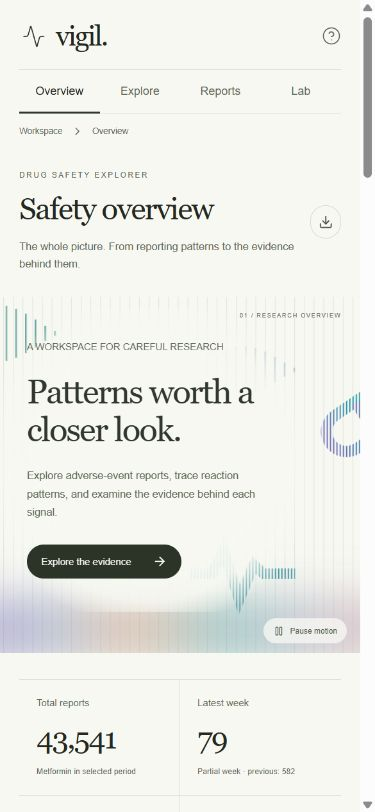
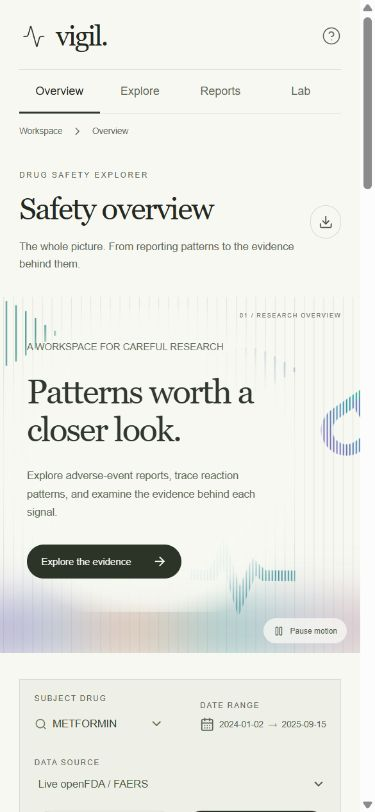
Reduce eye travel with a compact desktop workspace

diff --git a/frontend/src/main.jsx b/frontend/src/main.jsx
@@ -108,7 +108,7 @@ function App() {
  <aside className={`sidebar ${mobile?'open':''}`}><a className="brand" href="#overview" onClick={()=>navigate('overview')}><span className="brand-mark"><Activity size={29}/></span><span>vigil<span className="brand-period">.</span><small>SIGNAL INTELLIGENCE</small></span></a><div className="workspace-switch"><span className="workspace-icon"><Layers size={16}/></span><div>Safety workspace<small>Adverse event research</small></div><ShieldCheck size={15} className="muted"/></div><WorkspaceNavigation view={view} views={NAV} onNavigate={navigate}/><div className="sidebar-bottom"><div className="evidence-note"><span className="note-orbit"><Sparkles size={18}/></span><h3>Evidence, with context.</h3><p>Explore patterns.<br/>Keep the limitations in view.</p><button onClick={()=>setHelpOpen(true)}>How to read the data <ArrowUpRight size={14}/></button></div><button className="nav-item" onClick={()=>setHelpOpen(true)}><CircleHelp size={18}/><span>Guide & methodology</span></button><div className="profile"><span>KM</span><div>Research workspace<small>Local environment</small></div><span className="status-dot"/></div></div></aside>
  <div className="main-shell"><header className="topbar"><div className="breadcrumbs"><button className="icon-btn mobile-menu" onClick={()=>setMobile(true)} aria-label="Open navigation"><Menu size={20}/></button><span>Workspace</span><ChevronRight size={13}/>{view!=='overview'&&<><span className="breadcrumb-section">{groupForView(view).label}</span><ChevronRight size={13}/></>}<strong>{current[1]}</strong></div><div className="topbar-right"><span className="private-label"><ShieldCheck size={14}/> {data?.meta?.workspace_location==='hosted'?'Private hosted workspace':data?.meta?.workspace_location==='local'?'Local workspace':'Research workspace'}</span><span className="top-divider"/><button className="avatar" onClick={()=>setHelpOpen(true)} aria-label="Workspace information">KM</button></div></header>
  <main id="main" tabIndex={-1}><div className={`page-title ${view!=='overview'?'study-title':''}`}><div className="page-symbol" aria-hidden="true"><Activity size={25}/></div><div><div className="page-kicker"><span className="status-dot"/> DRUG SAFETY EXPLORER</div><h1>{view==='overview'?'Safety overview':current[1]}</h1><p>{({overview:'The whole picture. From reporting patterns to the evidence behind them.',reactions:'Explore which reactions appear most often in the selected cohort.',reports:'Inspect the records behind each pattern and export your findings.',signals:'Find unusual reporting patterns, then examine the supporting counts.',changes:'Compare two periods. Follow the reporting patterns that moved.',severity:'Explore reported outcomes and the composition of your cohort.',network:'Follow the connections between a drug and reported reactions.',narratives:'Turn unstructured text into transparent, inspectable evidence.',models:'Compare model behavior. Understand what drives a prediction.'})[view]}</p></div>{view!=='overview'&&<SectionMark view={view}/>}<button className="btn ghost" aria-label={exportData.label} onClick={()=>view==='changes'?exportChanges(exportData.rows):downloadCSV(exportData.rows,exportData.name,{data_source:exportSource,retrieved_at:exportEntry.result?.freshness?.retrieved_at||exportEntry.result?.generated_at||'',data_status:exportEntry.status,subject_drug:params.drug,comparison_drug:params.compare,cohort_start:params.start,cohort_end:params.end,reaction_focus:['reports','signals'].includes(view)?reaction:'',export_scope:reaction&&view==='reports'?'Reaction-specific sample':reaction&&view==='signals'?'Selected reaction signal':'Full cohort view'})} disabled={!exportData.rows.length||loading||Boolean(error)}><Download size={15}/><span>{exportData.label}</span></button></div>
- {view==='overview'&&<div className={`overview-intro ${data?'has-metrics':''}`}><section className="hero glass"><div className="hero-copy"><span className="eyebrow">A WORKSPACE FOR CAREFUL RESEARCH</span><h2>Patterns worth a<br/><span>closer look.</span></h2><p>Explore adverse-event reports, trace reaction patterns,<br className="desktop-br"/> and examine the evidence behind each signal.</p><button className="text-link" onClick={()=>navigate('signals')}>Explore the evidence <ArrowRight size={15}/></button></div><ScanlineField/><div className="hero-index">01 / RESEARCH OVERVIEW</div><div className="hero-bottom-caption">EVIDENCE IN EVERY DIMENSION</div></section>{data&&<div className="stats-grid">{stats.map((s,i)=><div className={`stat-card glass stat-${i}`} key={s.label}><div className="stat-top"><span>{s.label}</span><s.icon size={16}/></div><div className="stat-number">{s.value}{i<2&&<svg viewBox="0 0 90 35" aria-hidden="true"><polyline points={entries(data.timeseries).slice(-12).map((r,j,a)=>`${j*8},${32-(Number(r.count)||0)/Math.max(1,...a.map(x=>Number(x.count)||0))*28}`).join(' ')} fill="none" stroke="currentColor" strokeWidth="1.6"/></svg>}</div><p>{s.detail}</p></div>)}</div>}</div>}
+ {view==='overview'&&<div className="overview-intro"><section className="hero glass"><div className="hero-copy"><span className="eyebrow">A WORKSPACE FOR CAREFUL RESEARCH</span><h2>Patterns worth a<br/><span>closer look.</span></h2><p>Explore adverse-event reports, trace reaction patterns,<br className="desktop-br"/> and examine the evidence behind each signal.</p><button className="text-link" onClick={()=>navigate('signals')}>Explore the evidence <ArrowRight size={15}/></button></div><ScanlineField/><div className="hero-index">01 / RESEARCH OVERVIEW</div><div className="hero-bottom-caption">EVIDENCE IN EVERY DIMENSION</div></section></div>}
  <div className="filterbar glass"><div className="drug-select"><span className="filter-label">SUBJECT DRUG</span><DrugCombobox value={draft.drug} onChange={drug=>setDraft(d=>({...d,drug}))} onApply={apply} mode={draft.mode} localOptions={data?.filters?.drugs||['METFORMIN','IBUPROFEN','ACETAMINOPHEN']}/></div><div className="filter-period"><span className="filter-label">DATE RANGE</span><span><CalendarDays size={15}/>{params.start} <span className="muted">→</span> {params.end}</span></div><div className="source-select"><span className="filter-label">DATA SOURCE</span><select aria-label="Data source" value={draft.mode} onChange={e=>setDraft({...draft,mode:e.target.value})}><option value="reference">Synthetic local archive</option><option value="live">Live openFDA / FAERS</option></select></div><button className="btn ghost filter-button" onClick={openFilters}><SlidersHorizontal size={16}/> Filters{params.compare&&<span className="filter-count">+1</span>}</button><button className="btn primary" onClick={apply} disabled={loading||!draft.drug.trim()}><RefreshCw size={15} className={loading?'spin':''}/>{loading?'Loading…':pendingChanges?'Apply changes':'Apply'}</button></div>
  <div className="source-line"><span className="source-indicator"><span className={`status-dot ${reference?'lavender':''}`}/>{sourceLabel}</span><span className="source-description">{reference?'Illustrative data · no clinical conclusions':'Spontaneous reports · association ≠ causation'}</span>{pendingChanges&&<span className="pending-note" role="status">Unapplied changes</span>}<button className="icon-btn" title="Reload current cohort (cached for up to five minutes)" aria-label="Refresh current cohort" onClick={()=>setRefresh(value=>value+1)} disabled={dashboardBusy}><RefreshCw size={13}/></button></div>
  <DataStatus/><InvestigationWorkspace workspaceLocation={data?.meta?.workspace_location} requestState={requestState} comparison={periodData} actionsRef={investigationActions} onActiveChange={setActiveInvestigation} cohort={params} view={view} reaction={reaction} periods={periods} retrievedAt={view==='changes'?periodData?.meta.freshness?.retrieved_at||periodData?.meta.generated_at||'':workspaceResult?.freshness?.retrieved_at||workspaceResult?.generated_at||''} pending={pendingChanges||periodDraftDirty} onLoad={saved=>{setEvidenceOpen(false);setPeriods(saved.periods?.baseline_start?saved.periods:previousPeriod(saved.cohort));setPeriodDraftDirty(false);setParams({...saved.cohort});setDraft({...saved.cohort});setReaction(saved.reaction);setFlagged(false);navigate(saved.view)}}/>
@@ -116,7 +116,7 @@ function App() {
  {error&&<div className="error-box" role="alert"><AlertCircle size={19}/><div><strong>We couldn’t load this cohort</strong><p>{error}</p><button className="text-link" onClick={()=>setRefresh(refresh+1)}>Try again <RefreshCw size={13}/></button></div></div>}
  {loading?<div className="loading-state" role="status"><LoaderCircle className="spin" size={27}/><h3>Gathering the evidence</h3><p>{reference?'Reading your local archive…':'Querying openFDA. Larger cohorts may take a moment.'}</p><div className="skeleton-grid">{[0,1,2,3].map(i=><div className="skeleton" key={i}/>)}</div></div>:!error&&data&&<>
  {params.compare&&view!=='changes'&&<div className="compare-note"><Layers size={15}/><strong>{titleCase(params.drug)}</strong> compared with <strong>{titleCase(params.compare)}</strong><span>{comparison?.status==='unavailable'?'Comparison unavailable':comparison?.status==='partial'?'Partial comparison · see data notes':'Same date range and cohort'}</span></div>}
- {view==='overview'&&<><div className="overview-grid"><Panel section="core" title={`Weekly ${unit}`} description={`${titleCase(params.drug)} · ${fmt(summary.weeks)} weeks in view`} action={<Tag><span className="status-dot"/> Volume over time</Tag>} className="trend-panel"><TimeSeriesChart recordLabel={unit} data={entries(data.timeseries)} drug={titleCase(params.drug)} compareDrug={titleCase(params.compare)} compareData={comparisonSeries?entries(data.timeseries).map(r=>({date:r.date,count:r.compare_count})):undefined}/><div className="chart-foot"><span><span className="legend-dot"/> {titleCase(params.drug)}</span><span>Week received · {reference?'synthetic reviews':'FAERS reports'}</span></div></Panel><Panel section="signals" title="Evidence brief" eyebrow="ASSISTED EXPLORATION" action={<Sparkles size={17} className="mint"/>} className="brief-panel"><div className="brief-source"><span className="status-dot"/> Computed from this cohort</div><div className="brief-item"><span className="brief-number">01</span><div><h3>{leadingReaction?`${titleCase(leadingReaction.reaction)} leads the mentions`:'Start with reaction coverage'}</h3><p>{leadingReaction?`${fmt(leadingReaction.count)} ${unit} mention this reaction. Counts describe the selected cohort, not incidence.`:'No reaction counts are available for this cohort.'}</p></div></div><div className="brief-item"><span className="brief-number">02</span><div><h3>{fmt(summary.signal_count??(signalsReady?signals.filter(s=>s.signal).length:null))} patterns meet the flag rule</h3><p>Review PRR, confidence intervals, and supporting counts before interpreting a signal.</p></div></div><button className="btn brief-action" onClick={()=>navigate('signals')}>Inspect signals <ArrowUpRight size={15}/></button><div className="brief-disclaimer"><Info size={13}/> Rule-based summary · no generated medical advice</div></Panel><Panel section="core" title="Most mentioned reactions" description={`Top ${Math.min(6,reactions.length)} · counts in selected cohort`} action={<button className="icon-btn" aria-label="View all reactions" onClick={()=>navigate('reactions')}><ArrowUpRight size={18}/></button>}><HorizontalBars onSelect={selectReaction} selectedReaction={reaction} data={reactions.slice(0,6)} showComparison={comparisonReactions} compareLabel={titleCase(params.compare)} valueLabel={reference?'Reviews':'Reports'}/></Panel><Panel section="core" dependencies={params.compare?['signals','comparison']:['signals']} title="Connected evidence" description="Drug–reaction relationships at a glance" action={<button className="icon-btn" aria-label="Explore network" onClick={()=>navigate('network')}><ArrowUpRight size={18}/></button>} className="network-mini"><NetworkGraph compact selectedReaction={reaction} onReactionChange={selectReaction} data={data.graph||signals} recordLabel={unit} drug={titleCase(params.drug)}/></Panel></div></>}
+ {view==='overview'&&<>{data&&<div className="stats-grid">{stats.map((s,i)=><div className={`stat-card glass stat-${i}`} key={s.label}><div className="stat-top"><span>{s.label}</span><s.icon size={16}/></div><div className="stat-number">{s.value}{i<2&&<svg viewBox="0 0 90 35" aria-hidden="true"><polyline points={entries(data.timeseries).slice(-12).map((r,j,a)=>`${j*8},${32-(Number(r.count)||0)/Math.max(1,...a.map(x=>Number(x.count)||0))*28}`).join(' ')} fill="none" stroke="currentColor" strokeWidth="1.6"/></svg>}</div><p>{s.detail}</p></div>)}</div>}<div className="overview-grid"><Panel section="core" title={`Weekly ${unit}`} description={`${titleCase(params.drug)} · ${fmt(summary.weeks)} weeks in view`} action={<Tag><span className="status-dot"/> Volume over time</Tag>} className="trend-panel"><TimeSeriesChart recordLabel={unit} data={entries(data.timeseries)} drug={titleCase(params.drug)} compareDrug={titleCase(params.compare)} compareData={comparisonSeries?entries(data.timeseries).map(r=>({date:r.date,count:r.compare_count})):undefined}/><div className="chart-foot"><span><span className="legend-dot"/> {titleCase(params.drug)}</span><span>Week received · {reference?'synthetic reviews':'FAERS reports'}</span></div></Panel><Panel section="signals" title="Evidence brief" eyebrow="ASSISTED EXPLORATION" action={<Sparkles size={17} className="mint"/>} className="brief-panel"><div className="brief-source"><span className="status-dot"/> Computed from this cohort</div><div className="brief-item"><span className="brief-number">01</span><div><h3>{leadingReaction?`${titleCase(leadingReaction.reaction)} leads the mentions`:'Start with reaction coverage'}</h3><p>{leadingReaction?`${fmt(leadingReaction.count)} ${unit} mention this reaction. Counts describe the selected cohort, not incidence.`:'No reaction counts are available for this cohort.'}</p></div></div><div className="brief-item"><span className="brief-number">02</span><div><h3>{fmt(summary.signal_count??(signalsReady?signals.filter(s=>s.signal).length:null))} patterns meet the flag rule</h3><p>Review PRR, confidence intervals, and supporting counts before interpreting a signal.</p></div></div><button className="btn brief-action" onClick={()=>navigate('signals')}>Inspect signals <ArrowUpRight size={15}/></button><div className="brief-disclaimer"><Info size={13}/> Rule-based summary · no generated medical advice</div></Panel><Panel section="core" title="Most mentioned reactions" description={`Top ${Math.min(6,reactions.length)} · counts in selected cohort`} action={<button className="icon-btn" aria-label="View all reactions" onClick={()=>navigate('reactions')}><ArrowUpRight size={18}/></button>}><HorizontalBars onSelect={selectReaction} selectedReaction={reaction} data={reactions.slice(0,6)} showComparison={comparisonReactions} compareLabel={titleCase(params.compare)} valueLabel={reference?'Reviews':'Reports'}/></Panel><Panel section="core" dependencies={params.compare?['signals','comparison']:['signals']} title="Connected evidence" description="Drug–reaction relationships at a glance" action={<button className="icon-btn" aria-label="Explore network" onClick={()=>navigate('network')}><ArrowUpRight size={18}/></button>} className="network-mini"><NetworkGraph compact selectedReaction={reaction} onReactionChange={selectReaction} data={data.graph||signals} recordLabel={unit} drug={titleCase(params.drug)}/></Panel></div></>}
  {view==='reactions'&&<><div className="section-toolbar"><span>{fmt(reactions.length)} reaction terms</span><div><label className="inline-control">Top <select value={topN} onChange={e=>setTopN(+e.target.value)}>{[5,10,20,30].map(n=><option key={n}>{n}</option>)}</select></label><div className="segments"><button className={reactionView==='chart'?'selected':''} onClick={()=>setReactionView('chart')}>Chart</button><button className={reactionView==='treemap'?'selected':''} onClick={()=>setReactionView('treemap')}>Treemap</button><button className={reactionView==='table'?'selected':''} onClick={()=>setReactionView('table')}>Table</button></div></div></div><Panel section="core" title="Reaction frequency" description="A single record can mention more than one reaction.">{reactionView==='treemap'?<TreemapChart onSelect={selectReaction} selectedReaction={reaction} data={reactions.slice(0,topN)} recordLabel={unit}/>:reactionView==='chart'?<HorizontalBars onSelect={selectReaction} selectedReaction={reaction} data={reactions.slice(0,topN)} showComparison={comparisonReactions} compareLabel={titleCase(params.compare)} valueLabel={reference?'Reviews':'Reports'}/>:<DataTable onReaction={selectReaction} selectedReaction={reaction} data={reactions} source={source} name="reactions" columns={[{key:'reaction',label:'Reaction'},{key:'count',label:reference?'Reviews':'Reports'},...(params.compare?[{key:'compare_reports',label:titleCase(params.compare)}]:[])]}/>}</Panel>{params.compare&&<Panel section="comparison" title={`Comparison · ${titleCase(params.compare)}`}>{comparisonReactions?<HorizontalBars onSelect={selectReaction} selectedReaction={reaction} data={reactions.filter(r=>r.compare_reports!=null).slice(0,topN).map(r=>({...r,count:r.compare_reports}))} showComparison={false} color="#8773a5"/>:<Empty title="Comparison reactions unavailable">The comparison request did not complete. Counts are unknown; reload the cohort to try again.</Empty>}</Panel>}</>}
  {view==='reports'&&<Panel section={reaction?undefined:'reports'} title={reaction?`${titleCase(reaction)} · matching records`:reference?'Archive records':'Sample FAERS reports'} description={reference?'Synthetic review records supplied with the original project.':'Report sample returned by openFDA; this is not an exhaustive download.'}>{reaction?<>{reportFocus.key!==reportKey||reportFocus.loading?<p className="report-focus-note" role="status"><LoaderCircle size={16} className="spin"/> Loading matching records…</p>:reportFocus.error?<div className="error-box" role="alert"><p>{reportFocus.error}</p><button className="btn small" onClick={()=>setReportRetry(value=>value+1)}>Retry matching records</button></div>:<><p className="report-focus-note">{reportFocus.notice} <strong>{fmt(reportFocus.total)} matching {unit}; {fmt(focusedReports.length)} displayed.</strong>{reportFocus.skipped>0?` ${reportFocus.skipped} oversized reports omitted.`:''}</p><DataTable data={focusedReports} source={{data_source:source,retrieved_at:reportFocus.meta?.freshness?.retrieved_at||reportFocus.meta?.generated_at||'',reaction_focus:reaction,subject_drug:params.drug,cohort_start:params.start,cohort_end:params.end}} name="reaction-reports"/></>}</>:<DataTable data={entries(reference?data.narratives?.records:data.reports)} source={source} name="reports"/>}</Panel>}
  {view==='changes'&&<ChangesView cohort={params} periods={periods} refresh={refresh} result={changesResult} onResult={setChangesResult} onApply={applyPeriods} onSelect={selectReaction} selectedReaction={reaction} onInspect={term=>{selectReaction(term);setEvidenceOpen(false);navigate('reports')}} onExport={exportChanges} onDraftChange={setPeriodDraftDirty}/>}

diff --git a/frontend/src/responsive-workspace.css b/frontend/src/responsive-workspace.css
@@ -5,7 +5,7 @@
 @media(min-width:1200px){
   .app-shell{
     --workspace-gutter:clamp(32px,3vw,96px);
-    --workspace-max:clamp(1680px,84vw,2800px);
+    --workspace-max:2000px;
   }
   .app-shell .sidebar,.app-shell .topbar,.app-shell main{
     width:min(calc(100% - 2 * var(--workspace-gutter)),var(--workspace-max));
@@ -49,7 +49,9 @@
   .app-shell .stat-number{font-size:clamp(38px,2.1vw,49px);margin-top:16px}
   .app-shell .stat-card p{font-size:12px;line-height:1.6;margin-top:10px}
 
-  .app-shell .filterbar{padding:16px 20px;gap:20px}
+  .app-shell .filterbar{padding:16px 20px;gap:20px;justify-content:flex-start}
+  .app-shell .filterbar .drug-select{flex:0 1 360px;width:360px;max-width:360px}
+  .app-shell .filterbar .filter-period,.app-shell .filterbar .source-select,.app-shell .filterbar .filter-button{margin-left:0}
   .app-shell .filter-label{font-size:11px;margin-bottom:8px}
   .app-shell .drug-select .drug-combobox input{font-size:15px}
   .app-shell .source-select select{font-size:14px;max-width:210px}
@@ -102,26 +104,4 @@
   .app-shell.has-evidence .overview-intro{display:block}
   .app-shell.has-evidence .overview-grid,.app-shell.has-evidence .two-col{grid-template-columns:1fr}
   .app-shell.has-evidence .stats-grid{grid-template-columns:repeat(2,minmax(0,1fr))}
-}
-
-@media(min-width:1800px){
-  .app-shell .overview-intro.has-metrics{
-    display:grid;
-    grid-template-columns:minmax(0,1.9fr) minmax(420px,1fr);
-    gap:clamp(24px,2vw,48px);
-    align-items:stretch;
-    margin-bottom:24px;
-  }
-  .app-shell .overview-intro.has-metrics>.hero{margin:0;min-height:330px}
-  .app-shell .overview-intro>.stats-grid{
-    grid-template-columns:repeat(2,minmax(0,1fr));
-    margin:0;
-    align-content:stretch;
-  }
-  .app-shell .overview-intro .stat-card{padding:22px 24px;border-bottom:1px solid var(--border)}
-  .app-shell .overview-intro .stat-card:nth-child(2){border-right:0}
-  .app-shell .overview-intro .stat-card:nth-child(n+3){border-bottom:0}
-  .app-shell.has-evidence .overview-intro.has-metrics{display:block}
-  .app-shell.has-evidence .overview-intro>.hero{margin-bottom:22px}
-  .app-shell.has-evidence .overview-intro>.stats-grid{margin-bottom:24px}
 }

diff --git a/docs/WIDESCREEN-QA.md b/docs/WIDESCREEN-QA.md
@@ -1,14 +1,13 @@
-# Widescreen layout verification
+# Comfortable desktop layout verification
 
-Verified locally on 2026-10-25 using the production build and the live FDA cohort.
+Verified locally on 2026-10-25 using the production build and an FDA cohort.
 
-- 3840 × 2160: workspace expands to 2,800 CSS pixels; overview metrics sit alongside the shorter artwork panel; weekly chart and evidence brief fit side by side.
-- 2560 × 1440: workspace expands to about 2,150 pixels; overview, Signals, Network, Case reports, and Narrative lab have no horizontal page overflow.
-- 1440 × 900: workspace is about 1,338 pixels; metrics stack below the hero. Opening reaction evidence reduces the workspace to about 898 pixels and reflows charts into one column without page overflow.
-- 390 × 844: overview remains within the viewport; the original mobile artwork, four navigation groups, and two-column metrics remain available.
-- Selecting Nausea opens its evidence drawer with matching counts, PRR/ROR intervals, and connected report controls. Closing the drawer returns to the chart.
+- 3840 × 2160: centered workspace is capped at 2,000 CSS pixels. The larger text and shorter hero remain; all four metrics sit directly above the charts.
+- Subject drug, date range, source, Filters, and Apply stay grouped together, without automatic spacing pushing actions to the opposite edge.
+- 390 × 844: no horizontal page overflow; mobile artwork, navigation, and all four metrics remain available. Metrics now follow the cohort controls and reaction focus.
 - Frontend tests: 37 passed. Production build: passed.
+- Backend calculations, storage, API behavior, and research tools are unchanged.
 
-This pass changes layout and typography. Backend calculations, storage, APIs, and research tools are unchanged. These checks cover the listed paths and sizes, rather than guaranteeing the absence of every possible bug.
+The earlier wider-layout pass also exercised the evidence drawer, Signals, Network, Case reports, and Narrative lab. These checks cover the listed paths and sizes, rather than guaranteeing the absence of every possible bug.
 
 [4K preview](preview-wide-overview.png) · [Mobile preview](preview-mobile-overview.png)

diff --git a/README.md b/README.md
@@ -12,7 +12,7 @@ The interface uses warm paper tones, editorial serif headings, thin rules, and a
 
 ![Vigil editorial dashboard preview](docs/preview-editorial-overview.png)
 
-The desktop workspace expands with the screen, up to 2,800 pixels on a 4K display. Larger labels and controls keep the research tools readable. On wide screens the overview metrics sit beside a shorter hero; smaller screens stack them above the cohort controls. Opening the evidence drawer reflows the charts to fit the remaining space.
+The desktop workspace expands with the screen, up to 2,000 pixels on a 4K display. Larger labels and controls keep the research tools readable. Overview metrics sit directly above the charts, and related filter controls stay grouped together below the shorter hero. Opening the evidence drawer reflows the charts to fit the remaining space.
 
 [4K layout preview](docs/preview-wide-overview.png) · [Mobile layout preview](docs/preview-mobile-overview.png)
 
